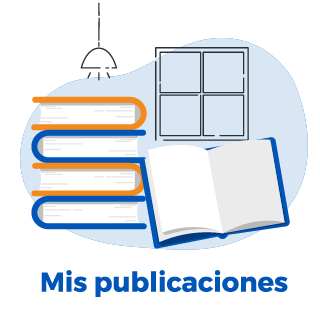
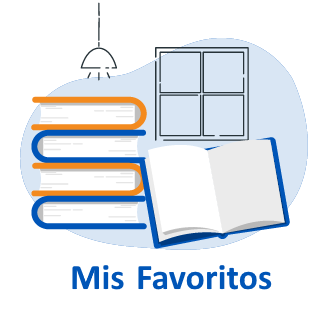
Added some corrections

Changed region(s): [[0.125, 0.8208, 0.9062, 0.934]]

diff --git a/src/Views/personalPubs.js b/src/Views/personalPubs.js
@@ -125,9 +125,9 @@ const PersonalPubs = ({navigation}) => {
             goToReader(item);
           }}
           style={styles.itemStyle}>
-          <View style={{flexDirection: 'row', alignItems: 'center'}}>
+          <View style={{flexDirection: 'row'}}>
           <Image style={styles.iconTop} source={{uri: item.pic_url,}} />
-          <View style={{flexDirection: 'column',padding:10}}>
+          <View style={{flexDirection: 'column', padding:0}}>
               <Text Text style={styles.text}>{item.title}</Text> 
               <Text style={styles.category}>{item.categoryName}</Text>
               <Text style={styles.author}>{item.author}</Text>
@@ -246,8 +246,8 @@ const styles = StyleSheet.create({
     marginBottom: 16
   },
   iconTop: {
-    width: 0.09 * width,
-    height: 0.09 * width,
+    width: 0.19 * width,
+    height: 0.19 * width,
     marginRight: 10
   },
   text:{
@@ -265,9 +265,24 @@ const styles = StyleSheet.create({
     fontFamily: 'Montserrat-Bold',
     color: '#616161'
   },
+  date:{
+    flex:1,
+    fontSize: 14,
+    fontFamily: 'Montserrat-Bold',
+    color: '#616161',
+    textAlign: 'left',
+    marginBottom:0,
+    padding:0
+  },
   barra:{
-   
-  }
+    color:'#007aff',
+    marginLeft:5,
+    backgroundColor: 'white',
+    borderWidth: 0, //no effect
+    shadowColor: 'white', //no effect
+    borderBottomColor: 'transparent',
+    borderTopColor: 'transparent'
+   }
 });
 
 export default PersonalPubs;

diff --git a/src/Views/drawer.js b/src/Views/drawer.js
@@ -42,13 +42,13 @@ const Drawer = ({navigation}) => {
             <Image style={styles.iconTop} source={fileIco} />
             <Text style={styles.textInput}  onPress={async() => {
                 navigation.navigate('BooksCategory',{index: 0, routes: [{name: 'BooksCategory'}]});
-              }}>Categorías</Text>
+              }}>Cuadernos de trabajo</Text>
           </View>
           <View style={styles.up} >
             <Image style={styles.iconTop} source={fileIco} />
             <Text style={styles.textInput}  onPress={async() => {
                 navigation.navigate('PersonalPubs',{index: 0, routes: [{name: 'PersonalPubs'}]});
-              }}>Mis publicaciones</Text>
+              }}>Mis favoritos</Text>
           </View>
         
         </View>

diff --git a/src/Views/myprofile.js b/src/Views/myprofile.js
@@ -94,13 +94,12 @@ const Register = ({navigation}) => {
     <View style={styles.container}>
     <Header style={{backgroundColor: '#f48c1c',height:100}}>
           <Left>
-            <Button transparent onPress={() => navigation.navigate('Dashboard')}>
+            <Button transparent onPress={() => navigation.navigate('Dashboard')} style={{width: 75, height: 75}}>
              <Image source={flecha} style={{width: 50, height: 50, marginTop:50}}></Image>
             </Button>
           </Left>
          
           <Right>
-          
           </Right>
         </Header>
       <ImageBackground source={fondo} style={styles.background}>

diff --git a/src/Views/dashboard.js b/src/Views/dashboard.js
@@ -248,7 +248,7 @@ const Dashboard = ({navigation, route}) => {
           style={styles.itemStyle}>
           <View style={{flexDirection: 'row'}}>
             <Image style={styles.iconTop} source={{uri: item.pic_url,}} />
-            <View style={{flexDirection: 'column',padding:10}}>
+            <View style={{flexDirection: 'column',padding:0}}>
               <Text Text style={styles.text}>{item.title}</Text> 
               <Text style={styles.category}>{item.categoryName}</Text>
               <Text style={styles.author}>{item.author}</Text>
